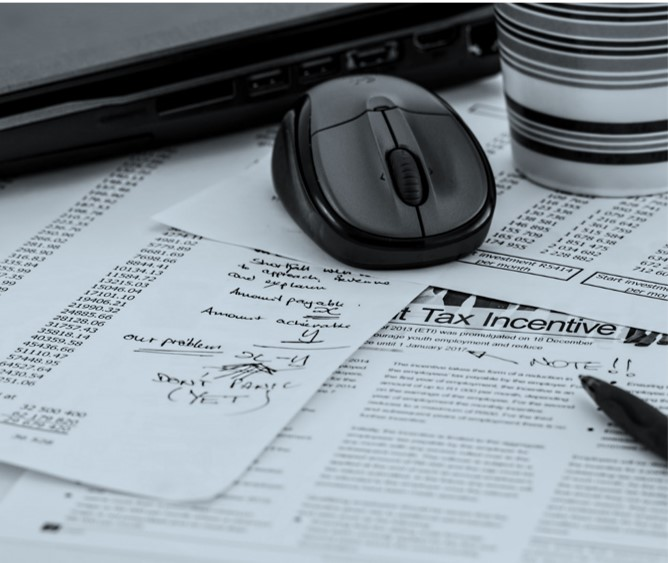
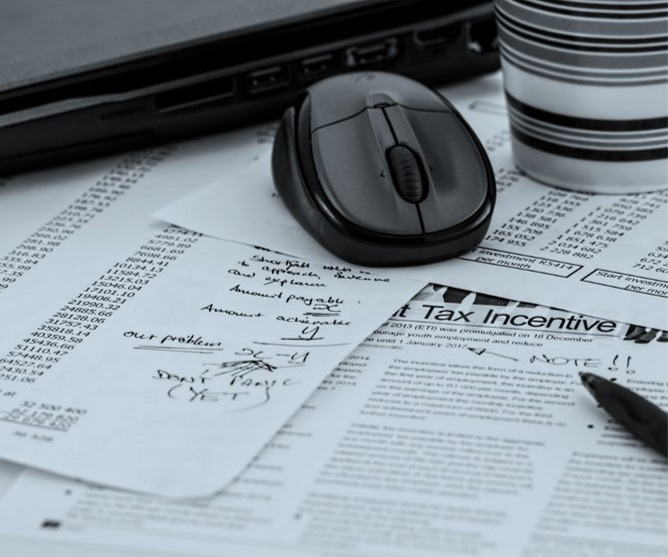
фикс баги с прокруткой страницы, обрезка картинки

diff --git a/js/app.js b/js/app.js
@@ -82,9 +82,9 @@ $(document).ready(function() {
 				document.getElementById('js-widget__contact-info').style.display = "flex";
 				document.body.className = "lock-position";
 			} else {
-				var id  = "#" + $(this).attr('href'),
-					mg  = $('.fixed__header').outerHeight(),
-					top = $(id).offset().top - mg;
+				let id  = "#" + $(this).attr('href');
+				let	mg  = $('.header__top-wrap').outerHeight();
+				let	top = $(id).offset().top - mg;
 
 				$('body,html').animate({scrollTop: top}, 1500);
 			}
